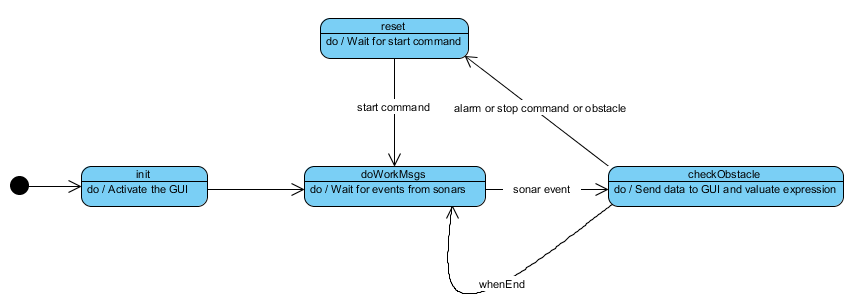
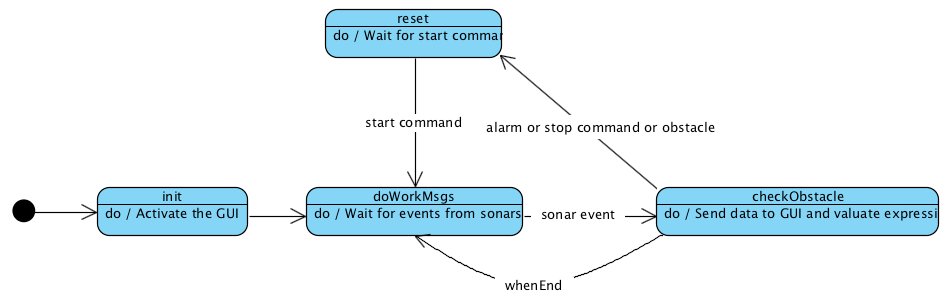
Sistemate immagini (rifare photoreceiver), finito domain/model

diff --git a/domain_model.tex b/domain_model.tex
@@ -7,16 +7,53 @@ The system includes three different kind of entities:
 	\item \textbf{Radar}: reactive, proactive and composed entity - Composed by 2 graphical interfaces, the first used to display sonar's distance values and the second to display user's command.
 \end{itemize}
 \textbf{Interaction} \\\\
+Interactions can be synchronous or asynchronous and relate to data or data streams. In this second case they may also be isochronous. 
+\begin{itemize}
+	\item \textbf{Asynchronous interaction:} communication is "buffered" without limitation on buffer size. The emitter should not expect any return information even when it sends information to a specific recipient. Receiver only waits when the buffer is empty. In the case of stream, there are no time constraints for reception.
+	\item \textbf{Synchronous interaction:} communication takes place without the use of any buffer. The issuer and the desinerium exchange information by unifying their activities conceptually. In the case of streams, the recipient expects to receive the data with a delay that does not exceed a predetermined maximum.
+	\item \textbf{Isochronous interaction:} affects only streams; the recipient expects to receive the data with a delay between a minimum and a maximum.
+\end{itemize}
 Requirements show the system's distributed and heterogeneous nature reason that no assumptions were made regarding the technology of the nodes. After several talks with the costumer, the following specifications also emerged: 
 \begin{itemize}
-	\item La comunicazione tra robot e remote interface è punto a punto.
-	\item Se l'operatore seleziona un comando e il robot non lo esegue allora l’operatore deve selezionare il comando nuovamente.
-	\item L'allarme è una comunicazione emessa dall'ASC e diretta ad un qualunque robot in ascolto.
-	\item La comunicazione tra robot e ASC per il trasferimento dei risultati della fase di detection è punto a punto.
-	\item I dati raccolti durante la fase di detection devono obbligatoriamente arrrivare all ASC.
-	\item L allarme è una comunicazione emessa dall ASC e diretta ad un qualunque robot in ascolto.
+	\item Sonar's distance values is an asynchronous interaction between sonar and radar;
+	\item Alarm is an asynchronous communication send from the radar to the robot;
+	\item The photo taken by the robot must be sent to the console with an asynchronous communication point to point;
+	\item User command is an asynchronous communication send from console to the robot;
+	\item Radar notify to the robot when it reaches a sonar with an asynchronous interaction.
 \end{itemize}
-L interazione tra le entità che compongono il sistema può essere formalizzata mediante un diagramma di sequenza.
-TODO diagramma di sequenza
-\textbf{Behaviour} \\\\
-SOLO DELLE 3 ENTITà
+The interaction between the entities that compose the system can be formalized by a sequence diagram.
+\begin{figure}[h]
+	\centering
+	\includegraphics[width=\linewidth]{Interaction-Domain-Model.png}
+	\caption{Interactions between the entities}
+\end{figure}
+\\\textbf{Behaviour} \\\\
+The behaviour of the entities can be modelled through simple finite state machine diagrams.
+\\\\
+\textbf{Sonar}
+\begin{figure}[h]
+	\centering
+	\includegraphics[width=\linewidth]{sonar.png}
+	\caption{FSM for Sonar}
+\end{figure}
+\clearpage
+\textbf{Console}
+\begin{figure}[h]
+	\centering
+	\includegraphics[width=7cm]{Console.png}
+	\caption{FSM for Console}
+\end{figure}
+\\\\
+\textbf{Radar}
+\begin{figure}[h]
+	\centering
+	\includegraphics[width=\linewidth]{radar.png}
+	\caption{FSM for Radar}
+\end{figure}
+\clearpage
+\textbf{Robot}
+\begin{figure}[h]
+	\centering
+	\includegraphics[width=\linewidth]{robot.png}
+	\caption{FSM for Robot}
+\end{figure}

diff --git a/requirement_analysis.tex b/requirement_analysis.tex
@@ -1,8 +1,10 @@
 \section{Requirement analysis}
 \labelsec{ReqAnalysis}
 One way to set up the analysis is to pay particular attention to the nouns and verbs that appear in the requirements. From a systematic analysis of nouns it is possible to formalize knowledge on the application domain and favor the production of a domain model based on abstraction sets (domain entity) characterized by common property, policies and constraints. From the analysis of verbs it is possible to identify the inevitable actions that the system will have to perform.
-\clearpage
-\textbf{Glossary}\\\\
+\begin{minipage}{\linewidth}
+\centering
+\captionof{table}{\textbf{Glossary}} \label{tab:title} 
+\end{minipage}
 \begin{tabular}{| l | p{10cm} |}
 \hline
 \textbf{Area A} & Robot starting point \\ \hline

diff --git a/Report.tex b/Report.tex
@@ -262,4 +262,8 @@
  
 \appendix
 
+
+\bibliographystyle{abbrv}
+\bibliography{biblio}
+
 \end{document}
